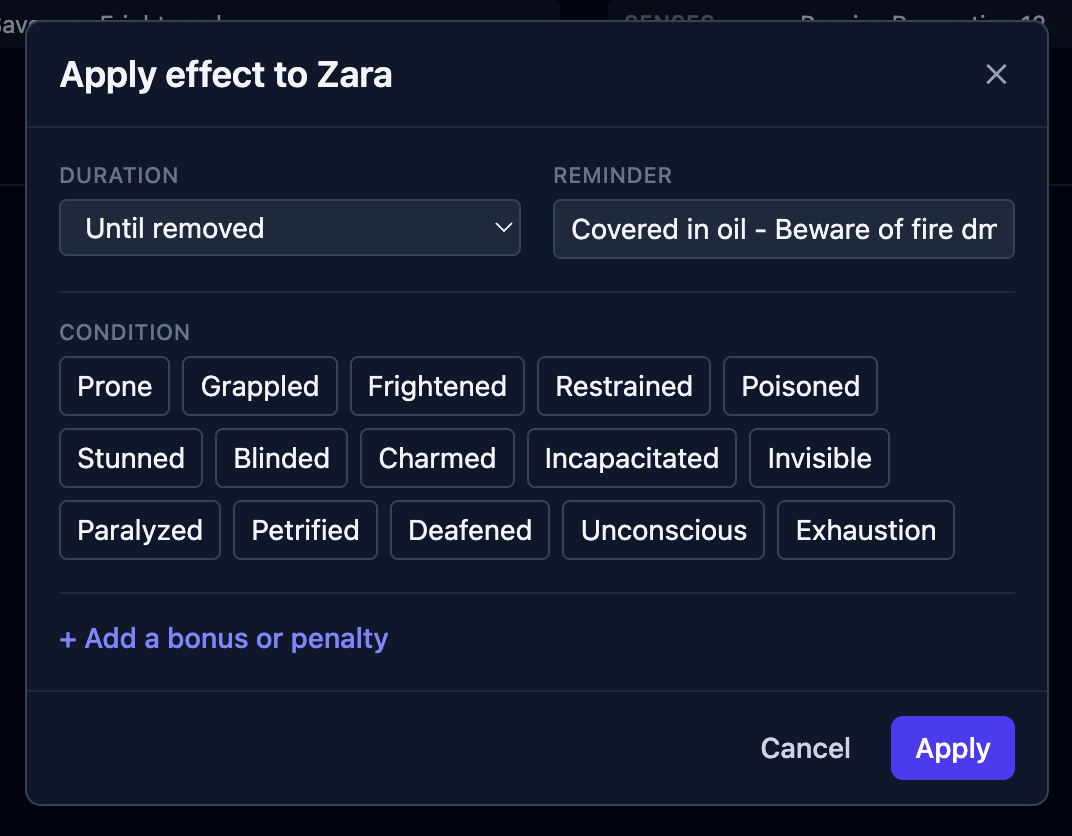
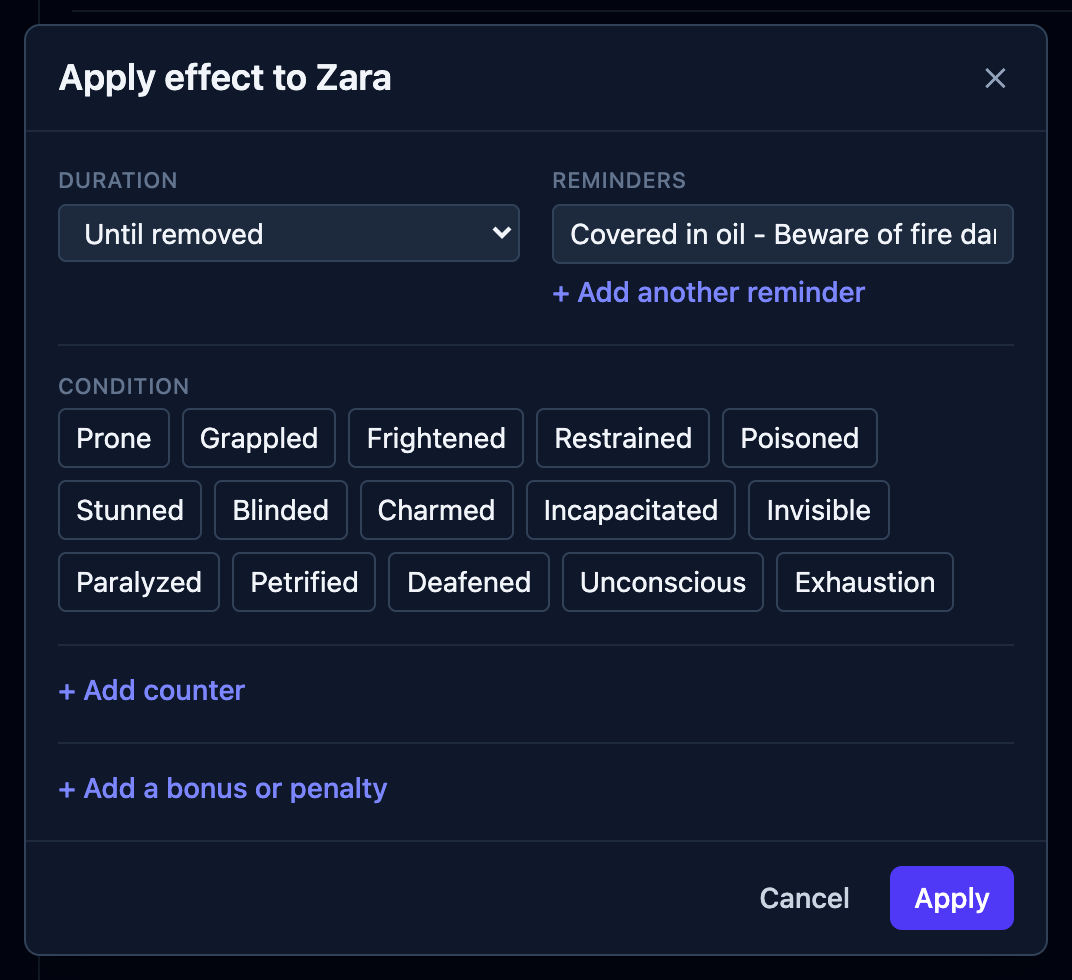
Docs: re-shoot the captures the staged effect box outdated
The apply-effect recipe marked four regions for a box that now stages six;
the counter recipe drove a duration choice that no longer exists. Both are
rewritten against the current modal (the presets row needs a library that
ships presets, so the recipe ticks Brood & Bloom first), and the modifier
builder finally gets a recipe of its own — the committed capture had none,
typo'd filename kept so the page's reference stands. Re-shot alongside:
the badge, the applied-effects list, the counter row, both worked examples,
and the compendium, whose committed capture predated the Effects tab and
the gear-menu header. The anon Add PC capture was compared and is
pixel-identical, so it stays.

diff --git a/scripts/screenshots/shots.py b/scripts/screenshots/shots.py
@@ -171,6 +171,11 @@ def tracker_row_shot():
 
 def apply_effect():
     with console() as page:
+        # The Presets row only shows once a library ships presets; Brood & Bloom does.
+        open_settings(page)
+        page.get_by_role("checkbox", name="Brood & Bloom").check()
+        page.get_by_role("button", name="Done").click()
+        page.wait_for_timeout(300)
         seed(page)
         start(page, ROLLS)
         page.get_by_text("Ogre", exact=True).first.click()
@@ -183,19 +188,43 @@ def apply_effect():
             page.get_by_role("button", name="Poisoned", exact=True).bounding_box(),
             page.get_by_role("button", name="Invisible", exact=True).bounding_box(), last))
         capture(page, "apply-effect", panel_of(page, "Apply effect to Ogre"), {
+            "presets": page.get_by_role("button", name="Presets").bounding_box(),
             "duration": page.get_by_label("Duration").bounding_box(),
             "reminder": page.get_by_placeholder("e.g. Hex: +1d6 necrotic").bounding_box(),
             "condition": {"x": first["x"], "y": first["y"], "width": edge - first["x"],
                           "height": last["y"] + last["height"] - first["y"]},
+            "counter": page.get_by_role("button", name="Add counter").bounding_box(),
             "modifier": page.get_by_role("button", name="Add a bonus or penalty").bounding_box(),
         }, pad=14)
-    # Numbered to match the 1–4 list on fight/effects.md.
+    # Numbered to match the staging steps 1–6 on fight/effects.md.
     r = rects(f"{OUT}/apply-effect.json")
     c = Canvas(f"{OUT}/apply-effect.png", grow=(52, 46, 0, 0), font_size=34)
-    for n, key in enumerate(["duration", "reminder", "condition", "modifier"], 1):
+    for n, key in enumerate(["presets", "duration", "reminder", "condition", "counter",
+                             "modifier"], 1):
         b = c.box(r[key], pad=7)
         c.number((b[0] - 4, b[1] - 6), n, r=22)
     return c.save(f"{OUT}/apply-effect.png")
+
+
+def add_bous_penalty_effect():
+    """The modifier builder with its ability chips, filled for a Wisdom-checks penalty
+    (fight/effects.md). The filename's typo is the committed one; keep them matching."""
+    with console() as page:
+        seed(page)
+        start(page, ROLLS)
+        _open_apply_effect(page, "Ogre")
+        page.get_by_role("button", name="Add a bonus or penalty").click()
+        page.wait_for_timeout(200)
+        page.get_by_label("Modifier effect").select_option(label="Disadvantage")
+        page.get_by_label("Applies to").select_option(label="Ability checks")
+        page.get_by_role("radio", name="Rolls it makes").check()
+        page.get_by_role("button", name="WIS", exact=True).click()
+        page.get_by_label("Modifier label").fill("Drunk")
+        page.wait_for_timeout(200)
+        box = page.get_by_label("Modifier label").locator(
+            "xpath=ancestor::div[contains(@class,'rounded')][1]").bounding_box()
+        capture(page, "add-bous-penalty-effect", box, pad=12)
+    return "add-bous-penalty-effect"  # no annotation — the derived sentence is the point
 
 
 def _frightened_ogre(page):
@@ -248,9 +277,10 @@ def effect_counter():
         page.wait_for_timeout(250)
         page.get_by_role("button", name="Apply effect").click()
         page.wait_for_timeout(400)
-        page.get_by_label("Duration").select_option("counter")
+        # A counter is its own staged part now, not a duration choice.
+        page.get_by_role("button", name="Add counter").click()
         page.wait_for_timeout(200)
-        page.get_by_label("Custom reminder").fill("Depth")
+        page.get_by_label("Counter 1 name").fill("Depth")
         page.get_by_role("button", name="Apply", exact=True).click()
         page.wait_for_timeout(400)
         # Raise it off zero, or the shot shows Lower and Reset greyed out.
@@ -994,6 +1024,7 @@ RECIPES = {
     "roll-initiative": roll_initiative,
     "tracker-row": tracker_row_shot,
     "apply-effect": apply_effect,
+    "add-bous-penalty-effect": add_bous_penalty_effect,
     "effect-badge": effect_badge,
     "effect-counter": effect_counter,
     "applied-effects": applied_effects,
